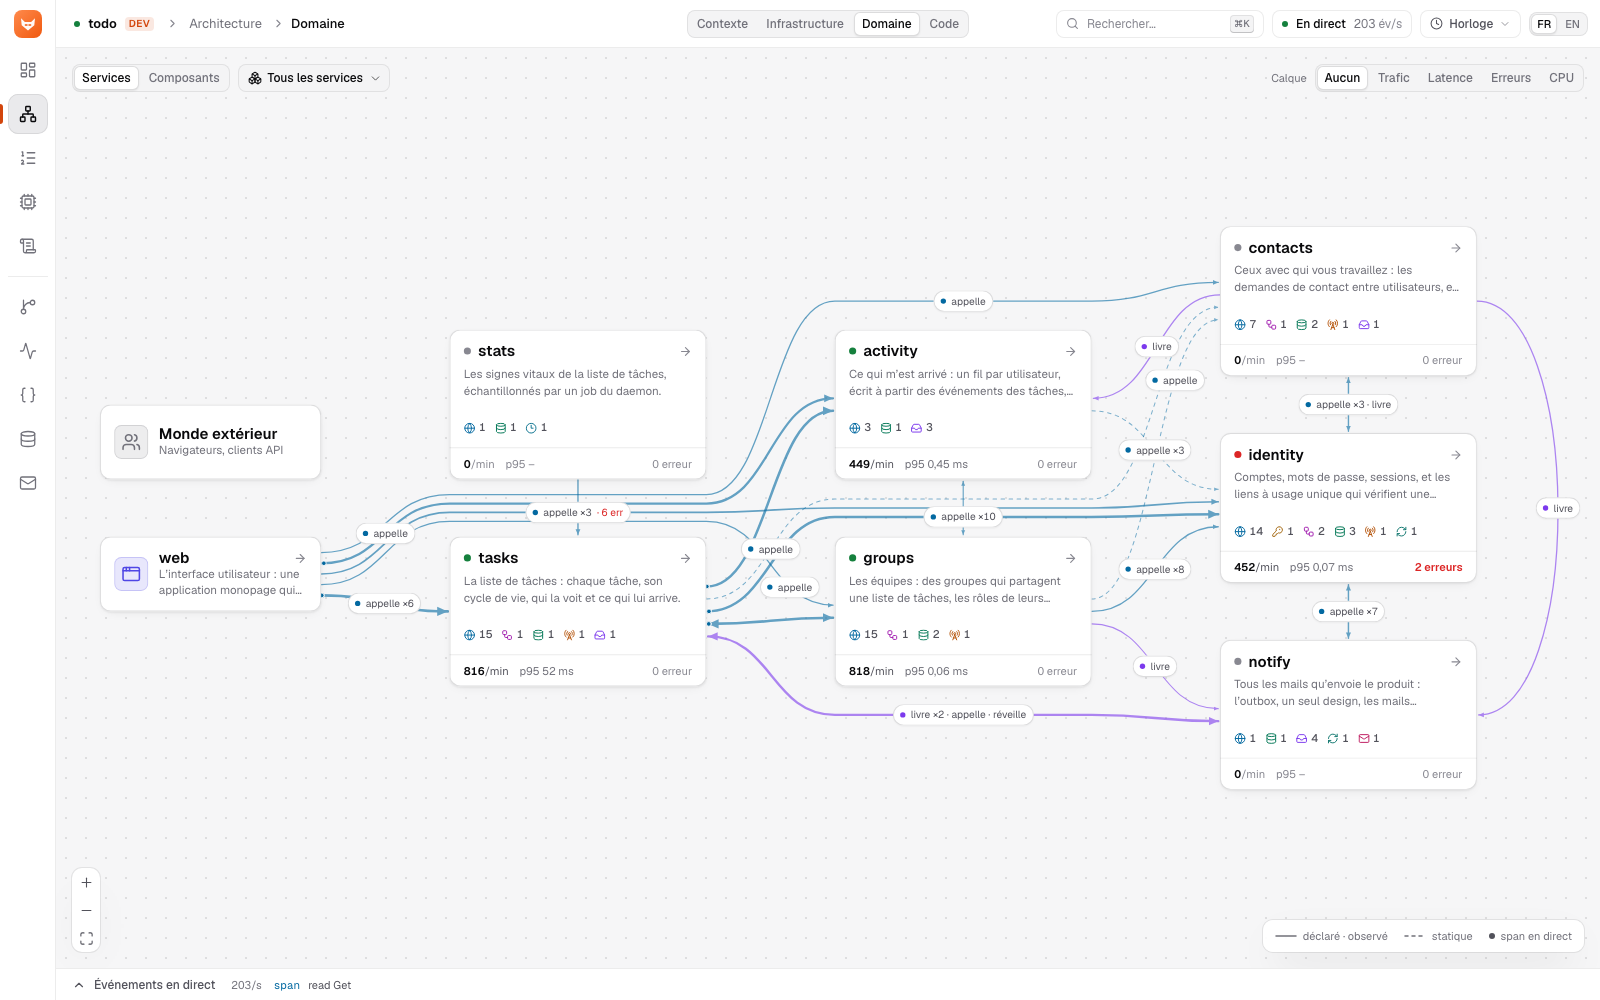
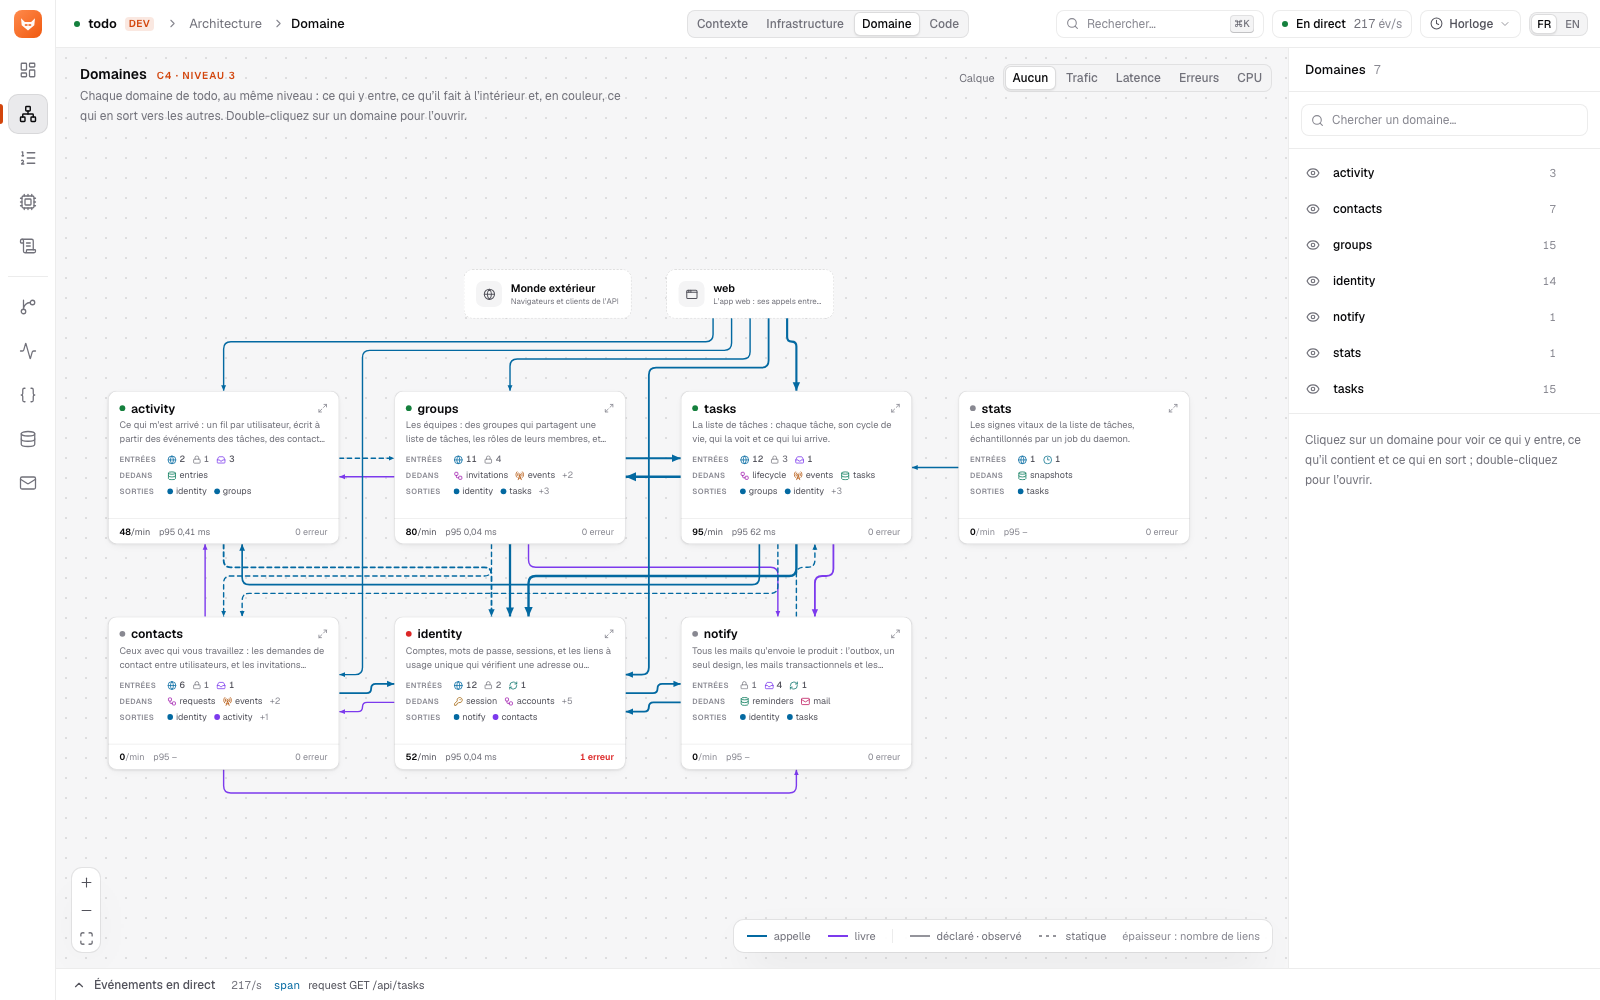
docs: the Studio's Architecture as it zooms
Infrastructure with a service's ports and flows, the Domains grid, and a
domain with a request replayed through its components, retaken on the
running app.

diff --git a/README.md b/README.md
@@ -46,16 +46,18 @@ its HTTP server — and the mails it sent.
 | **Overview** — the process's own numbers, then its connectors' widgets | **Context** — who uses the product, what it talks to (C4 level 1) |
 |---|---|
 | ![Overview](docs/studio-overview.png) | ![Context](docs/studio-context.png) |
-| **Infrastructure** — its containers, each leading to its view (C4 level 2) | **Domain** — the bounded contexts and how they talk (C4 level 3) |
-| ![Infrastructure](docs/studio-infrastructure.png) | ![Domain](docs/studio-domain.png) |
-| **Code** — what a node runs, what it touches (C4 level 4) | **Sequence** — what an entry point does, step by step, from its code |
-| ![Code](docs/studio-code.png) | ![Sequence](docs/studio-sequence.png) |
-| **Requests** — every request as a waterfall, a sequence, its payloads | **States** — a workflow, its population and its instances |
-| ![Requests](docs/studio-requests.png) | ![States](docs/studio-states.png) |
-| **The daemon** — its phases and its boot sequence | **Runtime** — every loop, by who wrote it: a library, kit, or the product |
-| ![Daemon](docs/studio-daemon.png) | ![Runtime](docs/studio-runtime.png) |
-| **The HTTP server** — net/http's accept loop and the middleware | **Mail** — every mail the product sent, in dev |
-| ![HTTP server](docs/studio-http.png) | ![Mail](docs/studio-mail.png) |
+| **Infrastructure** — its services, their ports and flows (C4 level 2) | **Domains** — every bounded context as a peer, the flows between them (C4 level 3) |
+| ![Infrastructure](docs/studio-infrastructure.png) | ![Domains](docs/studio-domain.png) |
+| **A domain** — a request replayed through its components and its sequence | **Code** — what a node runs, what it touches (C4 level 4) |
+| ![A domain](docs/studio-domain-replay.png) | ![Code](docs/studio-code.png) |
+| **Sequence** — what an entry point does, step by step, from its code | **Requests** — every request as a waterfall, a sequence, its payloads |
+| ![Sequence](docs/studio-sequence.png) | ![Requests](docs/studio-requests.png) |
+| **States** — a workflow, its population and its instances | **The daemon** — its phases and its boot sequence |
+| ![States](docs/studio-states.png) | ![Daemon](docs/studio-daemon.png) |
+| **Runtime** — every loop, by who wrote it: a library, kit, or the product | **The HTTP server** — net/http's accept loop and the middleware |
+| ![Runtime](docs/studio-runtime.png) | ![HTTP server](docs/studio-http.png) |
+| **Mail** — every mail the product sent, in dev | |
+| ![Mail](docs/studio-mail.png) | |
 
 Generated by `go run . graph -format mermaid`. Solid arrows exist by
 construction; dashed ones were found in the code by the static analysis. In
